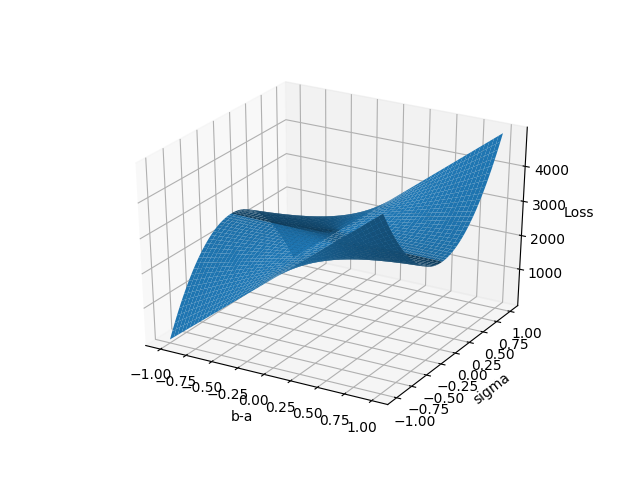
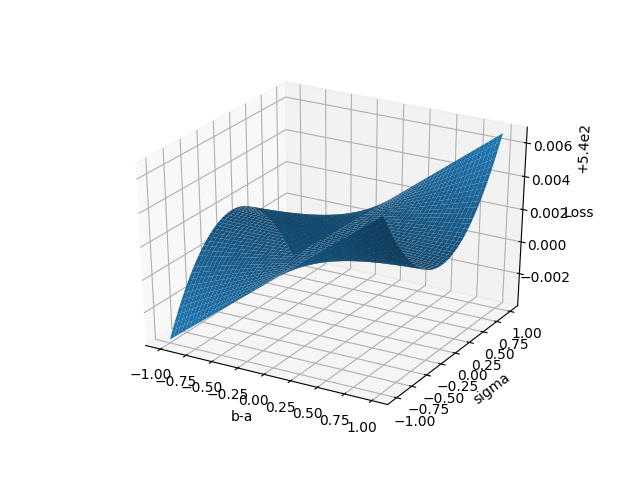
Tuned Loss function to be in the interval 0-200

diff --git a/docs/3d_plot_shrinked_more.py b/docs/3d_plot_shrinked_more.py
@@ -3,8 +3,13 @@ from mpl_toolkits.mplot3d import Axes3D
 import matplotlib.pyplot as plt
 import random
 
+x_shifting = 8
+output_shrinking = 172 
+z_shifting = 101.769
+y_shifting = 10**5
+
 def fun(x, y):
-  return ((((x-15)*300)**2 - ((y-8)*300)**2 + 2*((x)*300)*((y)*300)**2 )/10**10) + 540 
+  return ((((x-8)*172)**2 - ((y-8)*172)**2 + 2*((x)*172)*((y)*172)**2 + 1)/10**5) + 101.769
 
 def fun_bak(x, y):
   return x**2 - y**2 + 2*x*y**2 + 1 
